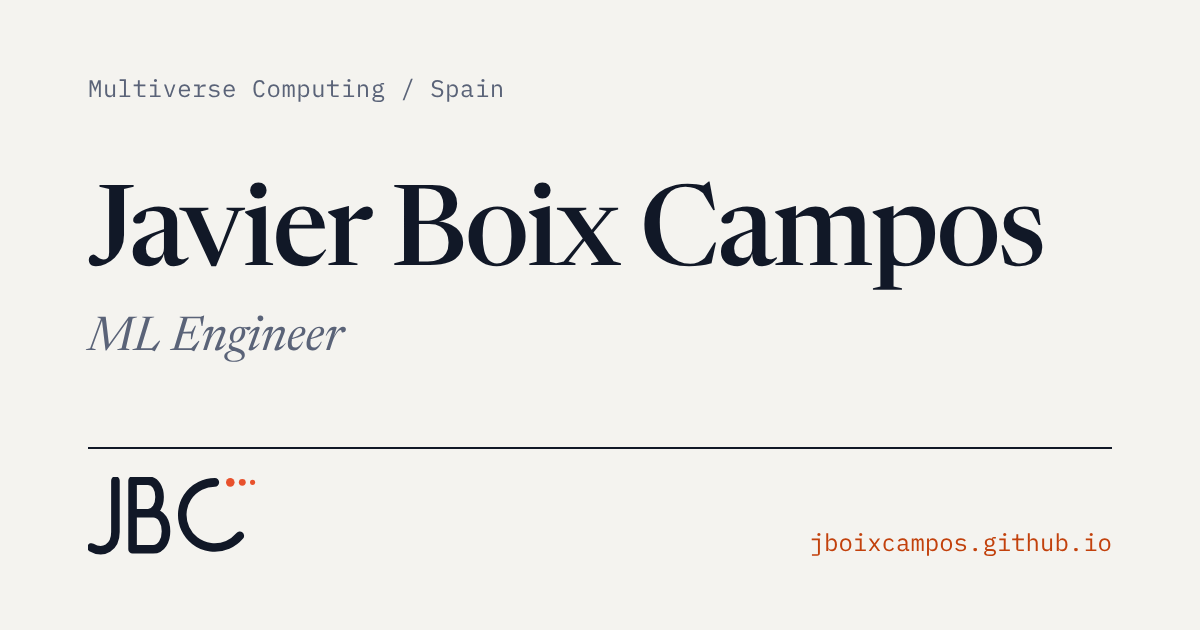
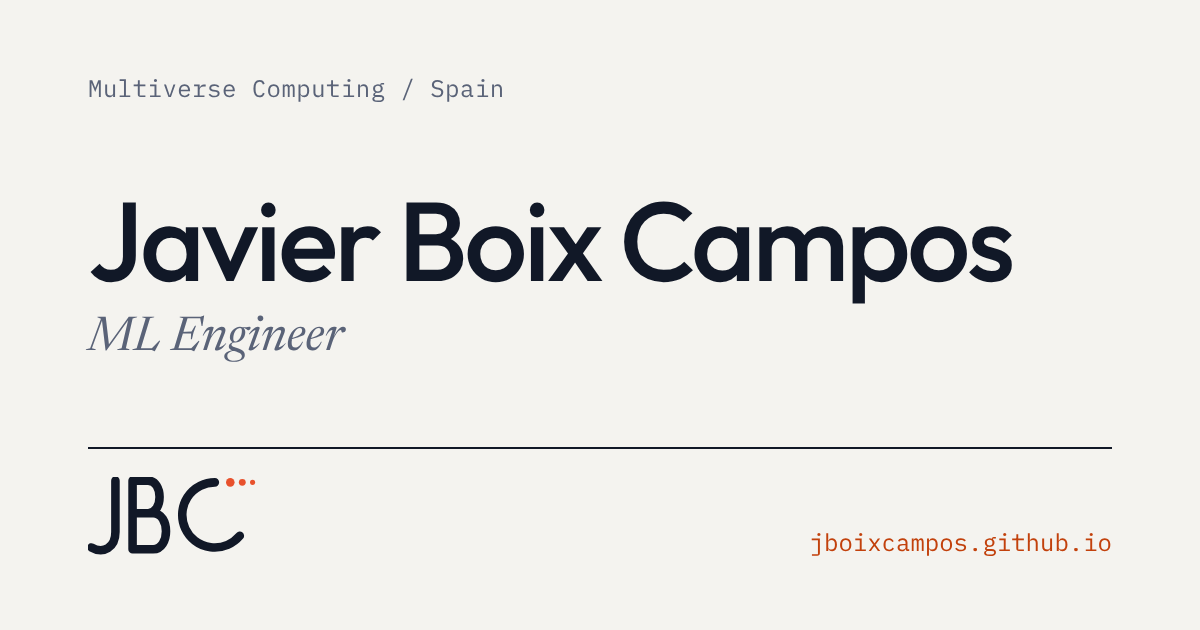
Set the name and titles in Outfit to match the monogram
Newsreader's contrast and serifs clashed with the monoline, round
monogram. The name and every title (hero, CV, page and section titles,
card, paper, publication and conference titles) now use Outfit 500,
whose round C and even strokes echo the logo. Newsreader stays for
prose and the italic role line, Inter for labels, IBM Plex Mono for
figures. The share image uses the same type.

Claude-Session: https://claude.ai/code/session_01SNURnQ8LMbL325VuoXrbJb

Changed region(s): [[0.0617, 0.2714, 0.8633, 0.4825]]

diff --git a/style.css b/style.css
@@ -1,6 +1,7 @@
 /* Fonts are loaded from each page's <head> (preconnect + display=swap):
-   Newsreader (names, titles, prose), Inter (navigation, labels),
-   IBM Plex Mono (figures, indices). */
+   Outfit (name and titles, matches the monogram's even, round strokes),
+   Newsreader (prose), Inter (navigation, labels), IBM Plex Mono
+   (figures, indices). */
 
 /* ─────────────────────────────────────────
    TOKENS
@@ -17,6 +18,7 @@
   --target:      #ECEBE6;  /* :target background */
   --rule:        #111827;  /* top rule of lists */
 
+  --display: 'Outfit', 'Inter', system-ui, sans-serif;  /* name and titles */
   --serif: 'Newsreader', Georgia, 'Times New Roman', serif;
   --sans:  'Inter', system-ui, -apple-system, 'Segoe UI', sans-serif;
   --mono:  'IBM Plex Mono', ui-monospace, 'SFMono-Regular', Menlo, monospace;
@@ -212,7 +214,7 @@ section { margin-bottom: 88px; }
 }
 
 .page-title {
-  font-family: var(--serif);
+  font-family: var(--display);
   font-size: clamp(2.4rem, 5vw, 3.5rem);
   font-weight: 500;
   line-height: 1.02;
@@ -261,7 +263,7 @@ section { margin-bottom: 88px; }
 }
 
 .pub-title {
-  font-family: var(--serif);
+  font-family: var(--display);
   font-size: 1.25rem;
   font-weight: 500;
   line-height: 1.3;
@@ -339,11 +341,11 @@ footer {
 .cv-header { margin-bottom: 72px; }
 
 .cv-name {
-  font-family: var(--serif);
+  font-family: var(--display);
   font-size: clamp(52px, 7vw, 84px);
   font-weight: 500;
   line-height: 0.98;
-  letter-spacing: -0.025em;
+  letter-spacing: -0.03em;
   margin-bottom: 12px;
   color: var(--text);
 }
@@ -443,7 +445,7 @@ footer {
 }
 
 .cv-institution {
-  font-family: var(--serif);
+  font-family: var(--display);
   font-size: 1.3rem;
   font-weight: 500;
   line-height: 1.25;
@@ -526,7 +528,7 @@ footer {
   align-items: start;
 }
 
-.award-title { font-size: 1.1rem; font-weight: 500; margin-bottom: 2px; }
+.award-title { font-family: var(--display); font-size: 1.05rem; font-weight: 500; margin-bottom: 2px; }
 .award-awarder { font-family: var(--sans); font-size: 0.85rem; color: var(--muted); }
 
 .award-cat {
@@ -560,7 +562,7 @@ footer {
 }
 
 .conf-title {
-  font-family: var(--serif);
+  font-family: var(--display);
   font-size: 1.2rem;
   font-weight: 500;
   line-height: 1.3;
@@ -637,7 +639,7 @@ footer {
 .project-status-dot.active { background: var(--signal); }
 
 .project-title {
-  font-family: var(--serif);
+  font-family: var(--display);
   font-size: 1.6rem;
   font-weight: 500;
   line-height: 1.15;
@@ -844,11 +846,11 @@ footer {
 }
 
 .hero-name {
-  font-family: var(--serif);
+  font-family: var(--display);
   font-size: clamp(52px, 8vw, 96px);
   font-weight: 500;
   line-height: 0.98;
-  letter-spacing: -0.025em;
+  letter-spacing: -0.03em;
   color: var(--text);
   margin-bottom: 14px;
 }
@@ -910,7 +912,7 @@ footer {
 
 /* Sections in the home share the action-title style */
 .action-title {
-  font-family: var(--serif);
+  font-family: var(--display);
   font-size: clamp(26px, 3vw, 34px);
   font-weight: 500;
   line-height: 1.15;
@@ -955,7 +957,7 @@ footer {
 }
 
 .paper-title {
-  font-family: var(--serif);
+  font-family: var(--display);
   font-size: 24px;
   font-weight: 500;
   line-height: 1.25;
@@ -1046,7 +1048,7 @@ footer {
 .tool { border-top: 1px solid var(--rule); padding-top: 20px; }
 
 .tool-name {
-  font-family: var(--serif);
+  font-family: var(--display);
   font-size: 26px;
   font-weight: 500;
   line-height: 1.2;

diff --git a/404.html b/404.html
@@ -19,7 +19,7 @@
   <link rel="icon" type="image/svg+xml" href="/favicon.svg">
   <link rel="preconnect" href="https://fonts.googleapis.com">
   <link rel="preconnect" href="https://fonts.gstatic.com" crossorigin>
-  <link rel="stylesheet" href="https://fonts.googleapis.com/css2?family=IBM+Plex+Mono:wght@400;500&family=Inter:wght@400;500;600&family=Newsreader:ital,opsz,wght@0,6..72,400;0,6..72,500;0,6..72,600;1,6..72,400;1,6..72,500&display=swap">
+  <link rel="stylesheet" href="https://fonts.googleapis.com/css2?family=IBM+Plex+Mono:wght@400;500&family=Inter:wght@400;500;600&family=Outfit:wght@500&family=Newsreader:ital,opsz,wght@0,6..72,400;0,6..72,500;0,6..72,600;1,6..72,400;1,6..72,500&display=swap">
   <link rel="stylesheet" href="/style.css">
 </head>
 <body>

diff --git a/cv.html b/cv.html
@@ -30,7 +30,7 @@
   <link rel="icon" type="image/svg+xml" href="favicon.svg">
   <link rel="preconnect" href="https://fonts.googleapis.com">
   <link rel="preconnect" href="https://fonts.gstatic.com" crossorigin>
-  <link rel="stylesheet" href="https://fonts.googleapis.com/css2?family=IBM+Plex+Mono:wght@400;500&family=Inter:wght@400;500;600&family=Newsreader:ital,opsz,wght@0,6..72,400;0,6..72,500;0,6..72,600;1,6..72,400;1,6..72,500&display=swap">
+  <link rel="stylesheet" href="https://fonts.googleapis.com/css2?family=IBM+Plex+Mono:wght@400;500&family=Inter:wght@400;500;600&family=Outfit:wght@500&family=Newsreader:ital,opsz,wght@0,6..72,400;0,6..72,500;0,6..72,600;1,6..72,400;1,6..72,500&display=swap">
   <link rel="stylesheet" href="style.css">
 </head>
 <body>

diff --git a/index.html b/index.html
@@ -83,7 +83,7 @@
   <link rel="icon" type="image/svg+xml" href="favicon.svg">
   <link rel="preconnect" href="https://fonts.googleapis.com">
   <link rel="preconnect" href="https://fonts.gstatic.com" crossorigin>
-  <link rel="stylesheet" href="https://fonts.googleapis.com/css2?family=IBM+Plex+Mono:wght@400;500&family=Inter:wght@400;500;600&family=Newsreader:ital,opsz,wght@0,6..72,400;0,6..72,500;0,6..72,600;1,6..72,400;1,6..72,500&display=swap">
+  <link rel="stylesheet" href="https://fonts.googleapis.com/css2?family=IBM+Plex+Mono:wght@400;500&family=Inter:wght@400;500;600&family=Outfit:wght@500&family=Newsreader:ital,opsz,wght@0,6..72,400;0,6..72,500;0,6..72,600;1,6..72,400;1,6..72,500&display=swap">
   <link rel="stylesheet" href="style.css">
 </head>
 <body>

diff --git a/projects.html b/projects.html
@@ -30,7 +30,7 @@
   <link rel="icon" type="image/svg+xml" href="favicon.svg">
   <link rel="preconnect" href="https://fonts.googleapis.com">
   <link rel="preconnect" href="https://fonts.gstatic.com" crossorigin>
-  <link rel="stylesheet" href="https://fonts.googleapis.com/css2?family=IBM+Plex+Mono:wght@400;500&family=Inter:wght@400;500;600&family=Newsreader:ital,opsz,wght@0,6..72,400;0,6..72,500;0,6..72,600;1,6..72,400;1,6..72,500&display=swap">
+  <link rel="stylesheet" href="https://fonts.googleapis.com/css2?family=IBM+Plex+Mono:wght@400;500&family=Inter:wght@400;500;600&family=Outfit:wght@500&family=Newsreader:ital,opsz,wght@0,6..72,400;0,6..72,500;0,6..72,600;1,6..72,400;1,6..72,500&display=swap">
   <link rel="stylesheet" href="style.css">
 </head>
 <body>

diff --git a/research.html b/research.html
@@ -30,7 +30,7 @@
   <link rel="icon" type="image/svg+xml" href="favicon.svg">
   <link rel="preconnect" href="https://fonts.googleapis.com">
   <link rel="preconnect" href="https://fonts.gstatic.com" crossorigin>
-  <link rel="stylesheet" href="https://fonts.googleapis.com/css2?family=IBM+Plex+Mono:wght@400;500&family=Inter:wght@400;500;600&family=Newsreader:ital,opsz,wght@0,6..72,400;0,6..72,500;0,6..72,600;1,6..72,400;1,6..72,500&display=swap">
+  <link rel="stylesheet" href="https://fonts.googleapis.com/css2?family=IBM+Plex+Mono:wght@400;500&family=Inter:wght@400;500;600&family=Outfit:wght@500&family=Newsreader:ital,opsz,wght@0,6..72,400;0,6..72,500;0,6..72,600;1,6..72,400;1,6..72,500&display=swap">
   <link rel="stylesheet" href="style.css">
 </head>
 <body>
